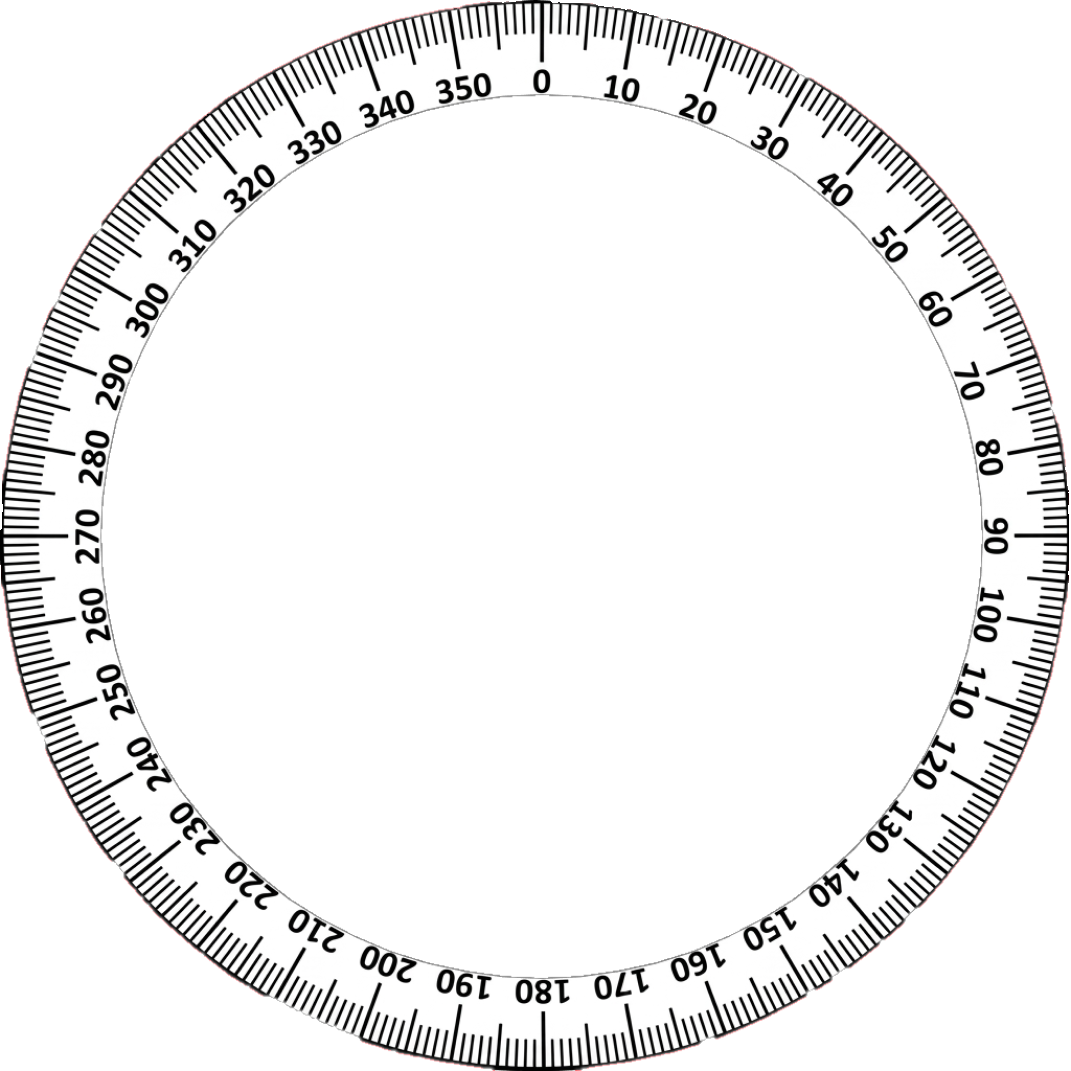
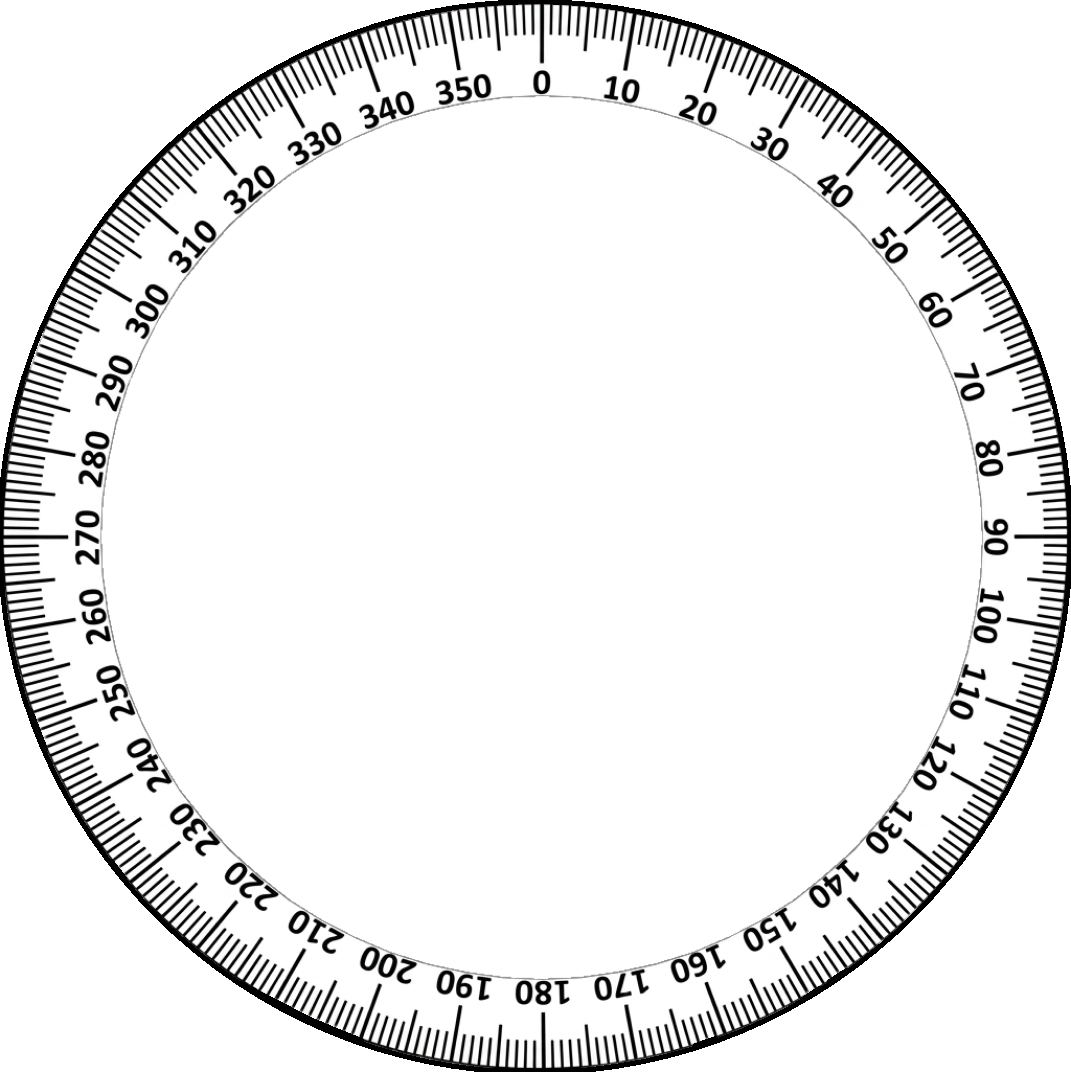
- Fixed bugs. - Image updated to make it look nicer. - TCPA will now show clossest to 0 first instead of lowest.

diff --git a/AIS_Response_Manager/RadarConsole.py b/AIS_Response_Manager/RadarConsole.py
@@ -553,25 +553,12 @@ class RadarConsole:
                 shifted_base.paste(base, (offset_x, offset_y), base)
 
                 base = Image.alpha_composite(shifted_base, self.overlay)
-                # draw = ImageDraw.Draw(base)
 
-                # # making circle on mask image using pieslice() function
-                # draw.pieslice([0,0,458,458],0,360,fill=255)
-
-                # # Converting the mask Image to numpy array
-                # np_new=np.array(base)
-
-                # # stack the array sequence
-                # # (original image array with mask image) depth wise
-                # npImage=np.dstack((npImage,np_new))
-
-                # # converting array to an image using fromarray() function
-                # final_img = Image.fromarray(npImage)
-
-                # # making thumbnail using thumbnail() 
-                # # function by passing the size in it
-                # final_img.thumbnail((458,458))
-
+                # Create a circular alpha mask so the image appears round.
+                mask = Image.new("L", base.size, 0)
+                mask_draw = ImageDraw.Draw(mask)
+                mask_draw.ellipse([0, 0, base.size[0], base.size[1]], fill=255)
+                base.putalpha(mask)
 
             # Convert to Tk image
             img = ImageTk.PhotoImage(base, master=self.window)

diff --git a/AIS_Response_Manager/RadarDrawing.py b/AIS_Response_Manager/RadarDrawing.py
@@ -66,6 +66,7 @@ class RadarDrawing:
             radius_list.append((250/KM) * multiplier)
         
         radius_list.reverse()
+        radar_t.color("darkgray")
         for r in radius_list:
             radar_t.penup()
             radar_t.goto(0, -r)
@@ -148,12 +149,12 @@ class RadarDrawing:
         boats_t.penup()
         boats_t.goto(px, py) # px(x): ←→  py(y): ↑↓
         boats_t.shape("arrow")
-        W_L = 1.00
+        W_L = 0.50
         boats_t.shapesize(W_L, W_L*4.0)
         if(IsTarget):
-            boats_t.color("orange")
+            boats_t.color("aqua")
         else:
-            boats_t.color("red")
+            boats_t.color("black")
         boats_t.setheading(90 - heading)
         boats_t.back(10)
         boats_t.stamp()
@@ -210,6 +211,7 @@ class RadarDrawing:
                 vector_length = max(10, vector_length)
                 radar_t.forward(vector_length)
             else:
+                vector_length = 0
                 vector_length += 10
                 radar_t.forward(vector_length)
         except Exception as e:
@@ -333,4 +335,3 @@ class RadarDrawing:
             #     print("error generating background color:")
             #     print(e)
         # turtle.bgpic(self.bg_loc)
-

diff --git a/AIS_Response_Manager/RadarPlotter.py b/AIS_Response_Manager/RadarPlotter.py
@@ -102,7 +102,7 @@ class RadarPlotter:
             elif self.Order is Order.CPA:
                 self.RadarConsoleData = sorted(self.RadarConsoleData, key=lambda x: x[3], reverse=reverse)
             elif self.Order is Order.TCPA:
-                self.RadarConsoleData = sorted(self.RadarConsoleData, key=lambda x: x[4], reverse=reverse)
+                self.RadarConsoleData = sorted(self.RadarConsoleData, key=lambda x: abs(x[4]), reverse=reverse)
             else:
                 self.RadarConsoleData = sorted(self.RadarConsoleData, reverse=reverse)
         except Exception as e:
